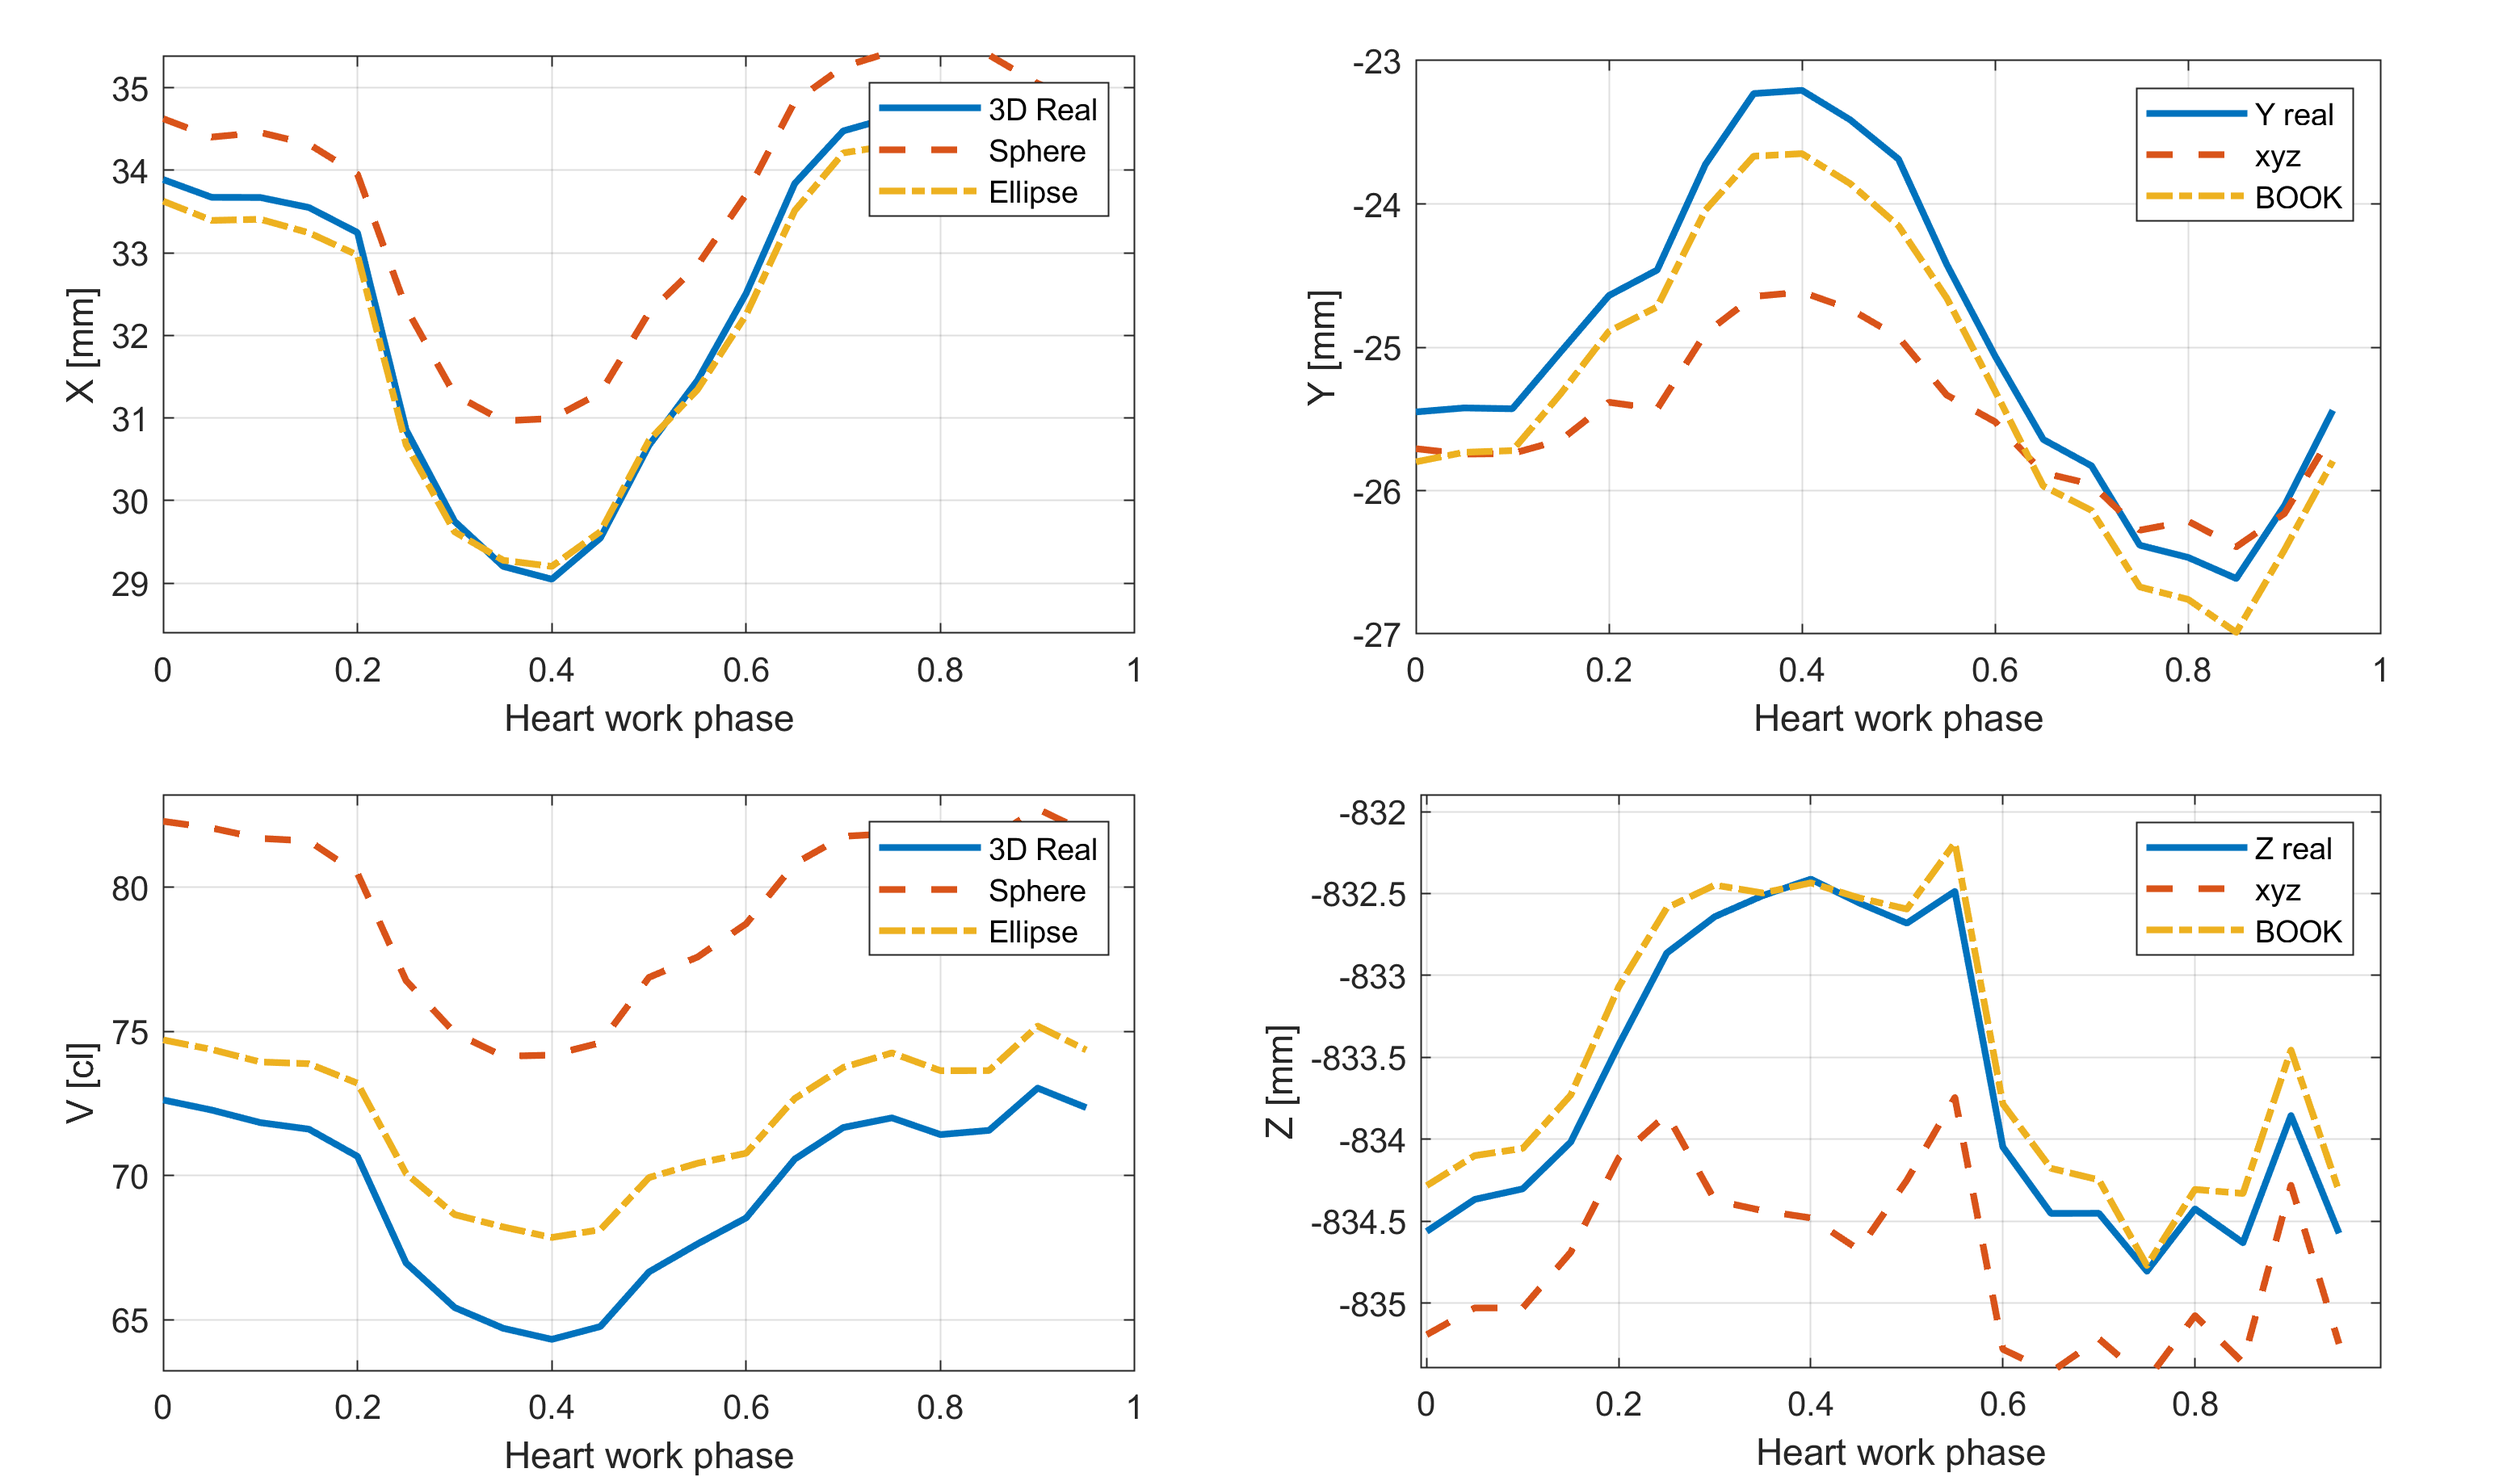
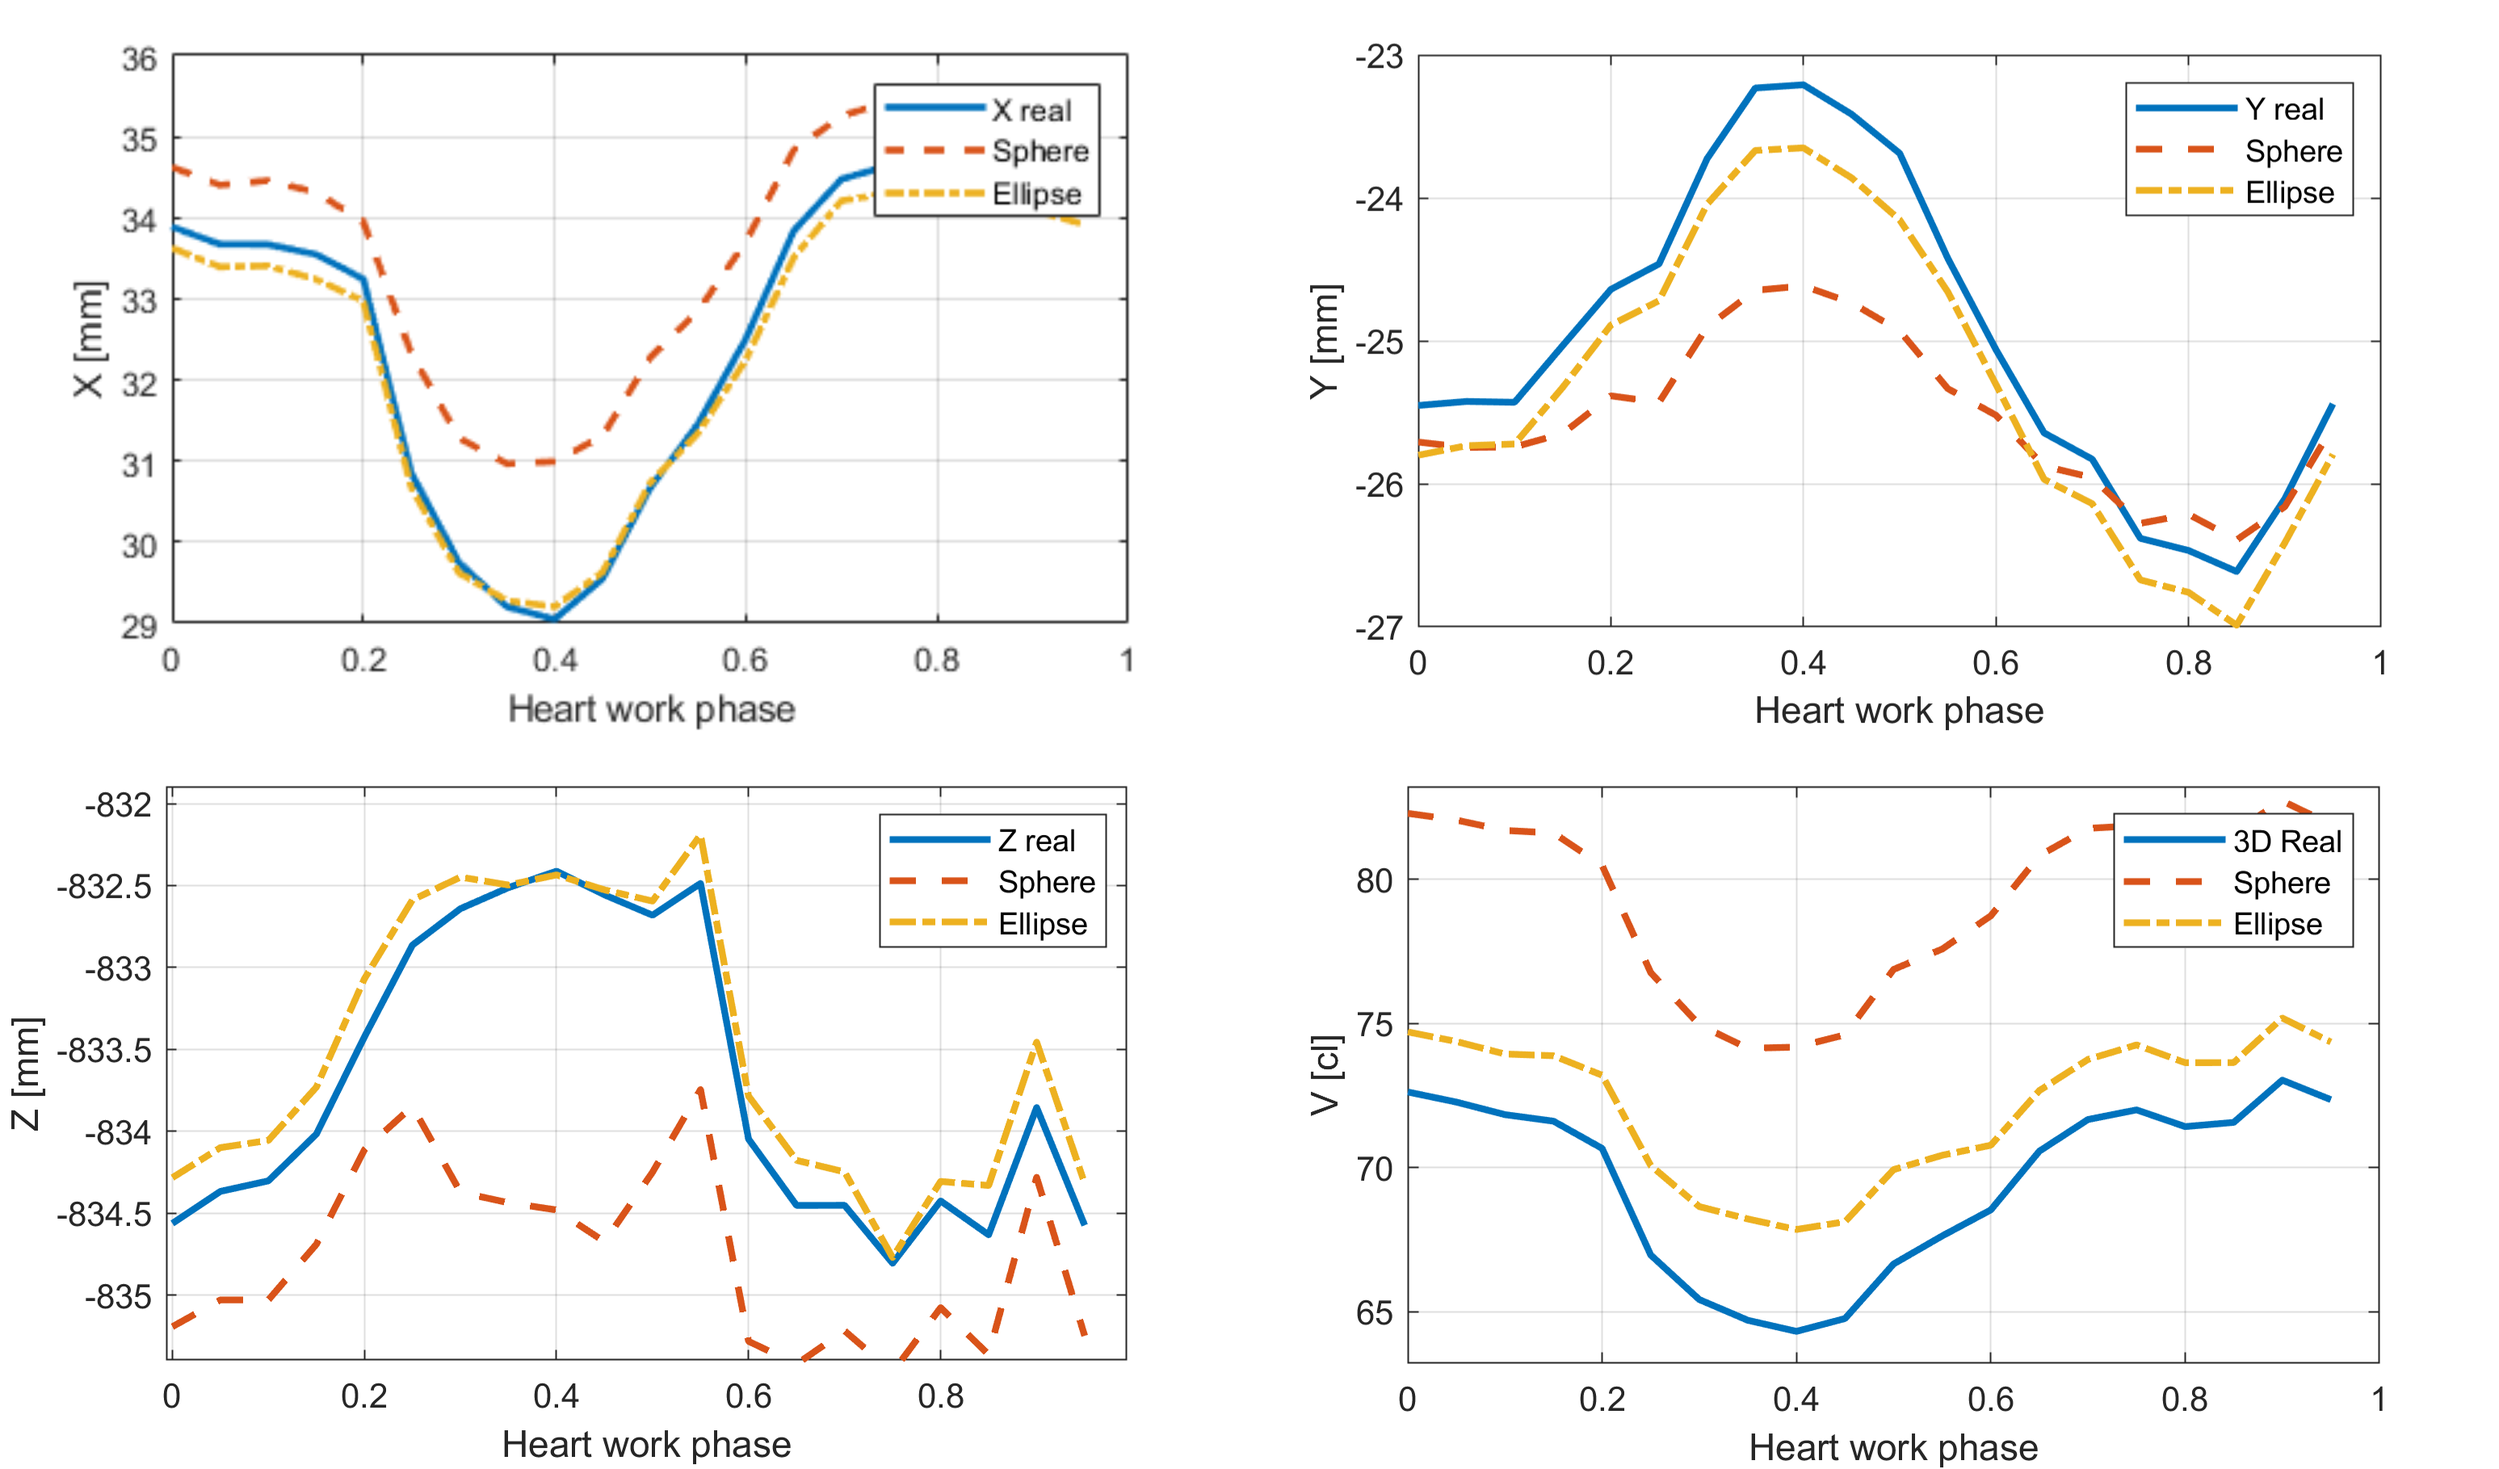
Заменены рисунки. Добавлено обсуждение и заключение

diff --git a/src/USBEREIT2021.tex b/src/USBEREIT2021.tex
@@ -276,7 +276,7 @@ $dist(p_i,Z(f))$, как разность между расстоянием от
 \begin{figure}[htbp]
 %    \centerline{\includegraphics{fig/fig1.png}}
     \centering{\includegraphics[width=\linewidth]{fig/1_4}}
-    \caption{Значение R x y z ЦМ в ходе сердечного цикла}
+    \caption{Изменение в ходе сердечного цикла координат центра масс (X, Y, Z) и объема исходной 3D модели, сферы и эллипсоида}
     \label{fig:rxyz}
 \end{figure}
 
@@ -307,7 +307,7 @@ $dist(p_i,Z(f))$, как разность между расстоянием от
 \begin{figure}[tbph]
     \centering
     \includegraphics[width=\linewidth]{ellipse}
-    \caption{Зависимость изменения импеданса в ходе сердечного цикла для сферической модели (расположение электродной системы вдоль оси сердца - слева,перпендикулярно оси сердца - справа)}
+    \caption{Зависимость изменения импеданса в ходе сердечного цикла для эллиптической модели (расположение электродной системы вдоль оси сердца - слева,перпендикулярно оси сердца - справа)}
     \label{fig:ellipse}
 \end{figure}
 
@@ -315,10 +315,26 @@ $dist(p_i,Z(f))$, как разность между расстоянием от
 
 \section{Discussion}
 
+При сравнении движения центра масс исходной 3D модели и аппроксимирующей сферы и эллипсоида из Рис.\ref{fig:rxyz} видно,
+что центр масс эллипсоида движется в соответствии с центром масс 3D модели.
+Движение сферы качественно соответствует движению 3D модели, но количественно отличается - менее амплитудное.
+Объем эллипсоида отличается в среднем на 3-5\% в ходе сердечного цикла, для сферы разница достигает 12-15\%.
+Это может оказать влияние и внести дополнительную погрешность при оценке гемодинамических характеристик на основе геометрической модели сферы.
 
+Формы сигналов электроримпедансного моделирования для сферы и эллипсоида качественно соответсвуют форме сигнала для исходной 3D модели, но значительно отличаются по амплитудным характеристикам.
+Для численной оценки полученных результатов моделирования сравнивалось значение изменения импеданса в ходе систолы желудочков $\Delta Z$.
+То есть разности значений  на Рис.\ref{real}  в моменты времени соответствующие 0\% и 40\% кардиоцикла (начало и окончание систолы желудочков).
+При малых значениях электродных систем (80-120 мм) $\Delta Z$ для 3D модели отличается на \%  от $\Delta Z$ для сферы и на \% от $\Delta Z$ для эллипсоида.
+При больших значениях электродных систем (200-240 мм) $\Delta Z$ для 3D модели отличается на \%  от $\Delta Z$ для сферы и на \% от $\Delta Z$ для эллипсоида.
+%todo заполнить проценты
 
 \section{Conclusion}
 
+Проведенные исследования показали, что для данного добровольца эллиптическая геометрическая модель крови сердца аппроксимирует реальную 3D геометрию сердца с погрешностью 3-5\% и является предпочтительной, при оценке гемодинамических параметров.
+При этом электроимпедансное моделирование показало, что при использовании электродных систем размером 80--120 мм предпочтительно использовать эллиптическую геометрическую модель, а при использовании больших электродных систем 200--240 мм предпочтительно использовать сферическую геометрическую модель.
+Так как для прекардиального продольно-поперечного картирования, как правило, используются электродные системы с размерами свыше 180 мм, то необходимо использовать сферическую математическую модель.
+
+Указанные выводы верны для данного добровольца. На данный момент проводятся исследования еще для трех здоровых добровольцев, чтобы оценить полученные выводы.
 %An excellent style manual for science writers is \cite{b7}.
 
 \begin{thebibliography}{00}
